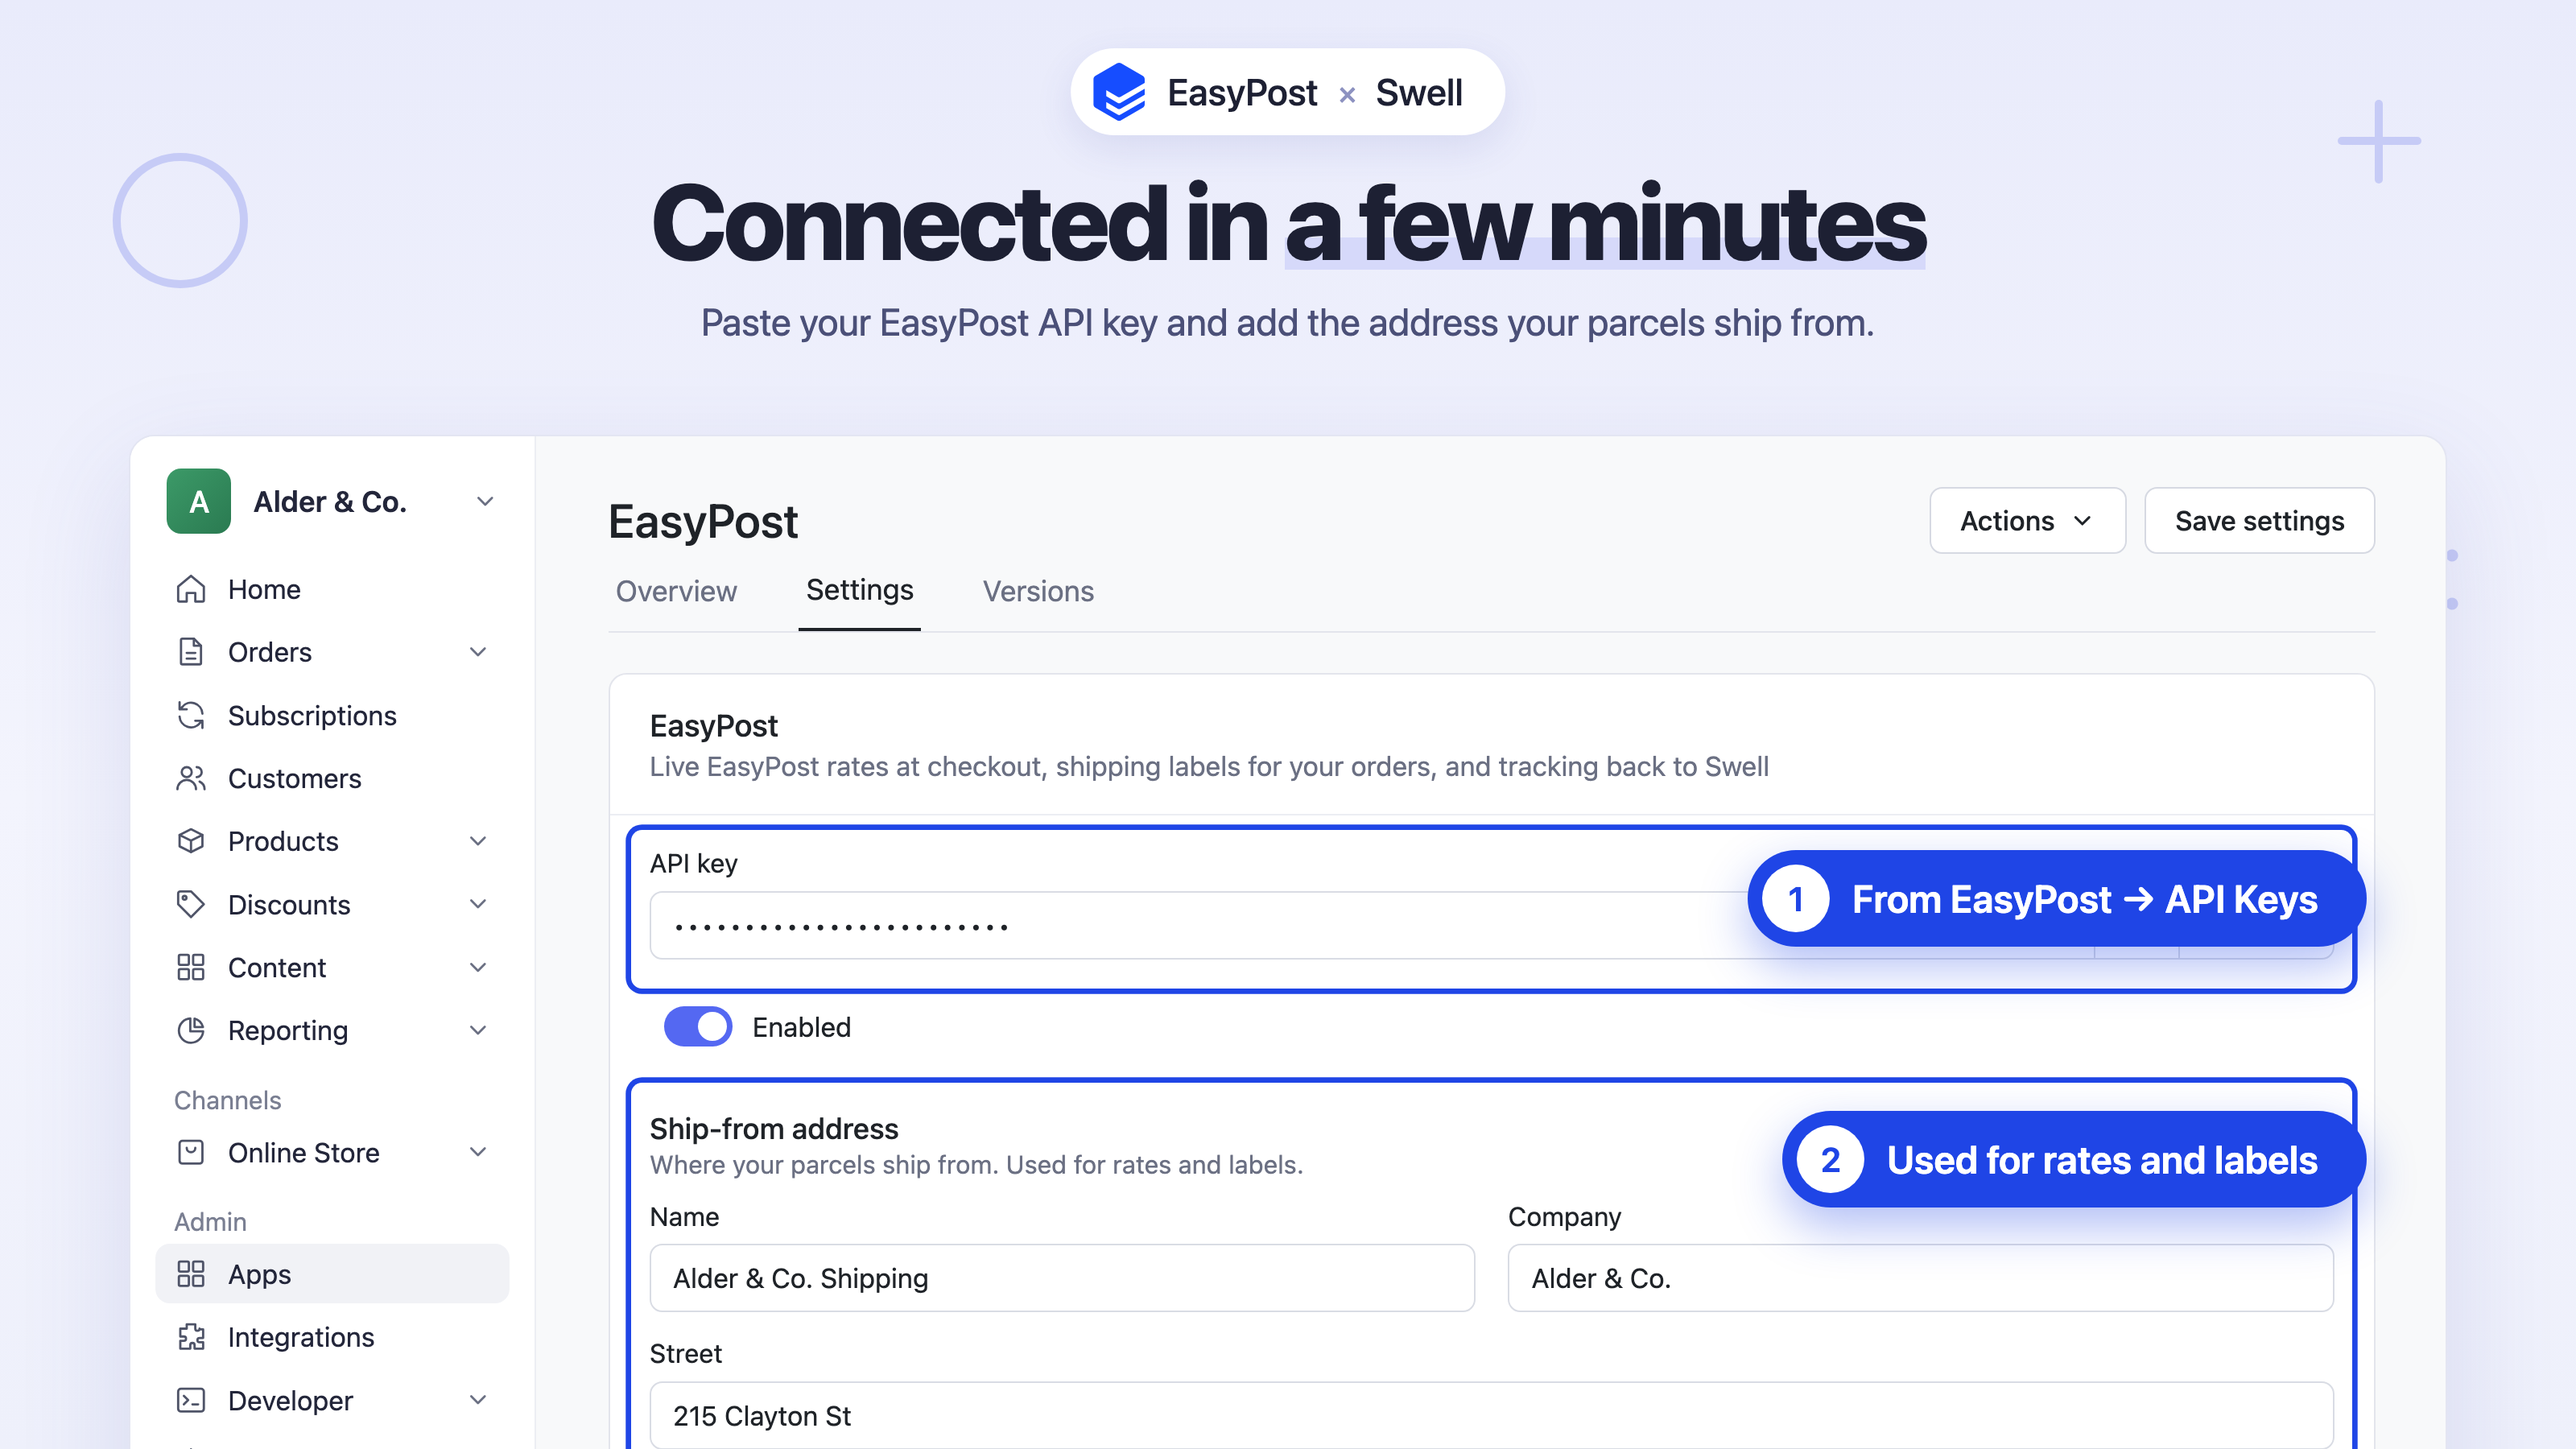
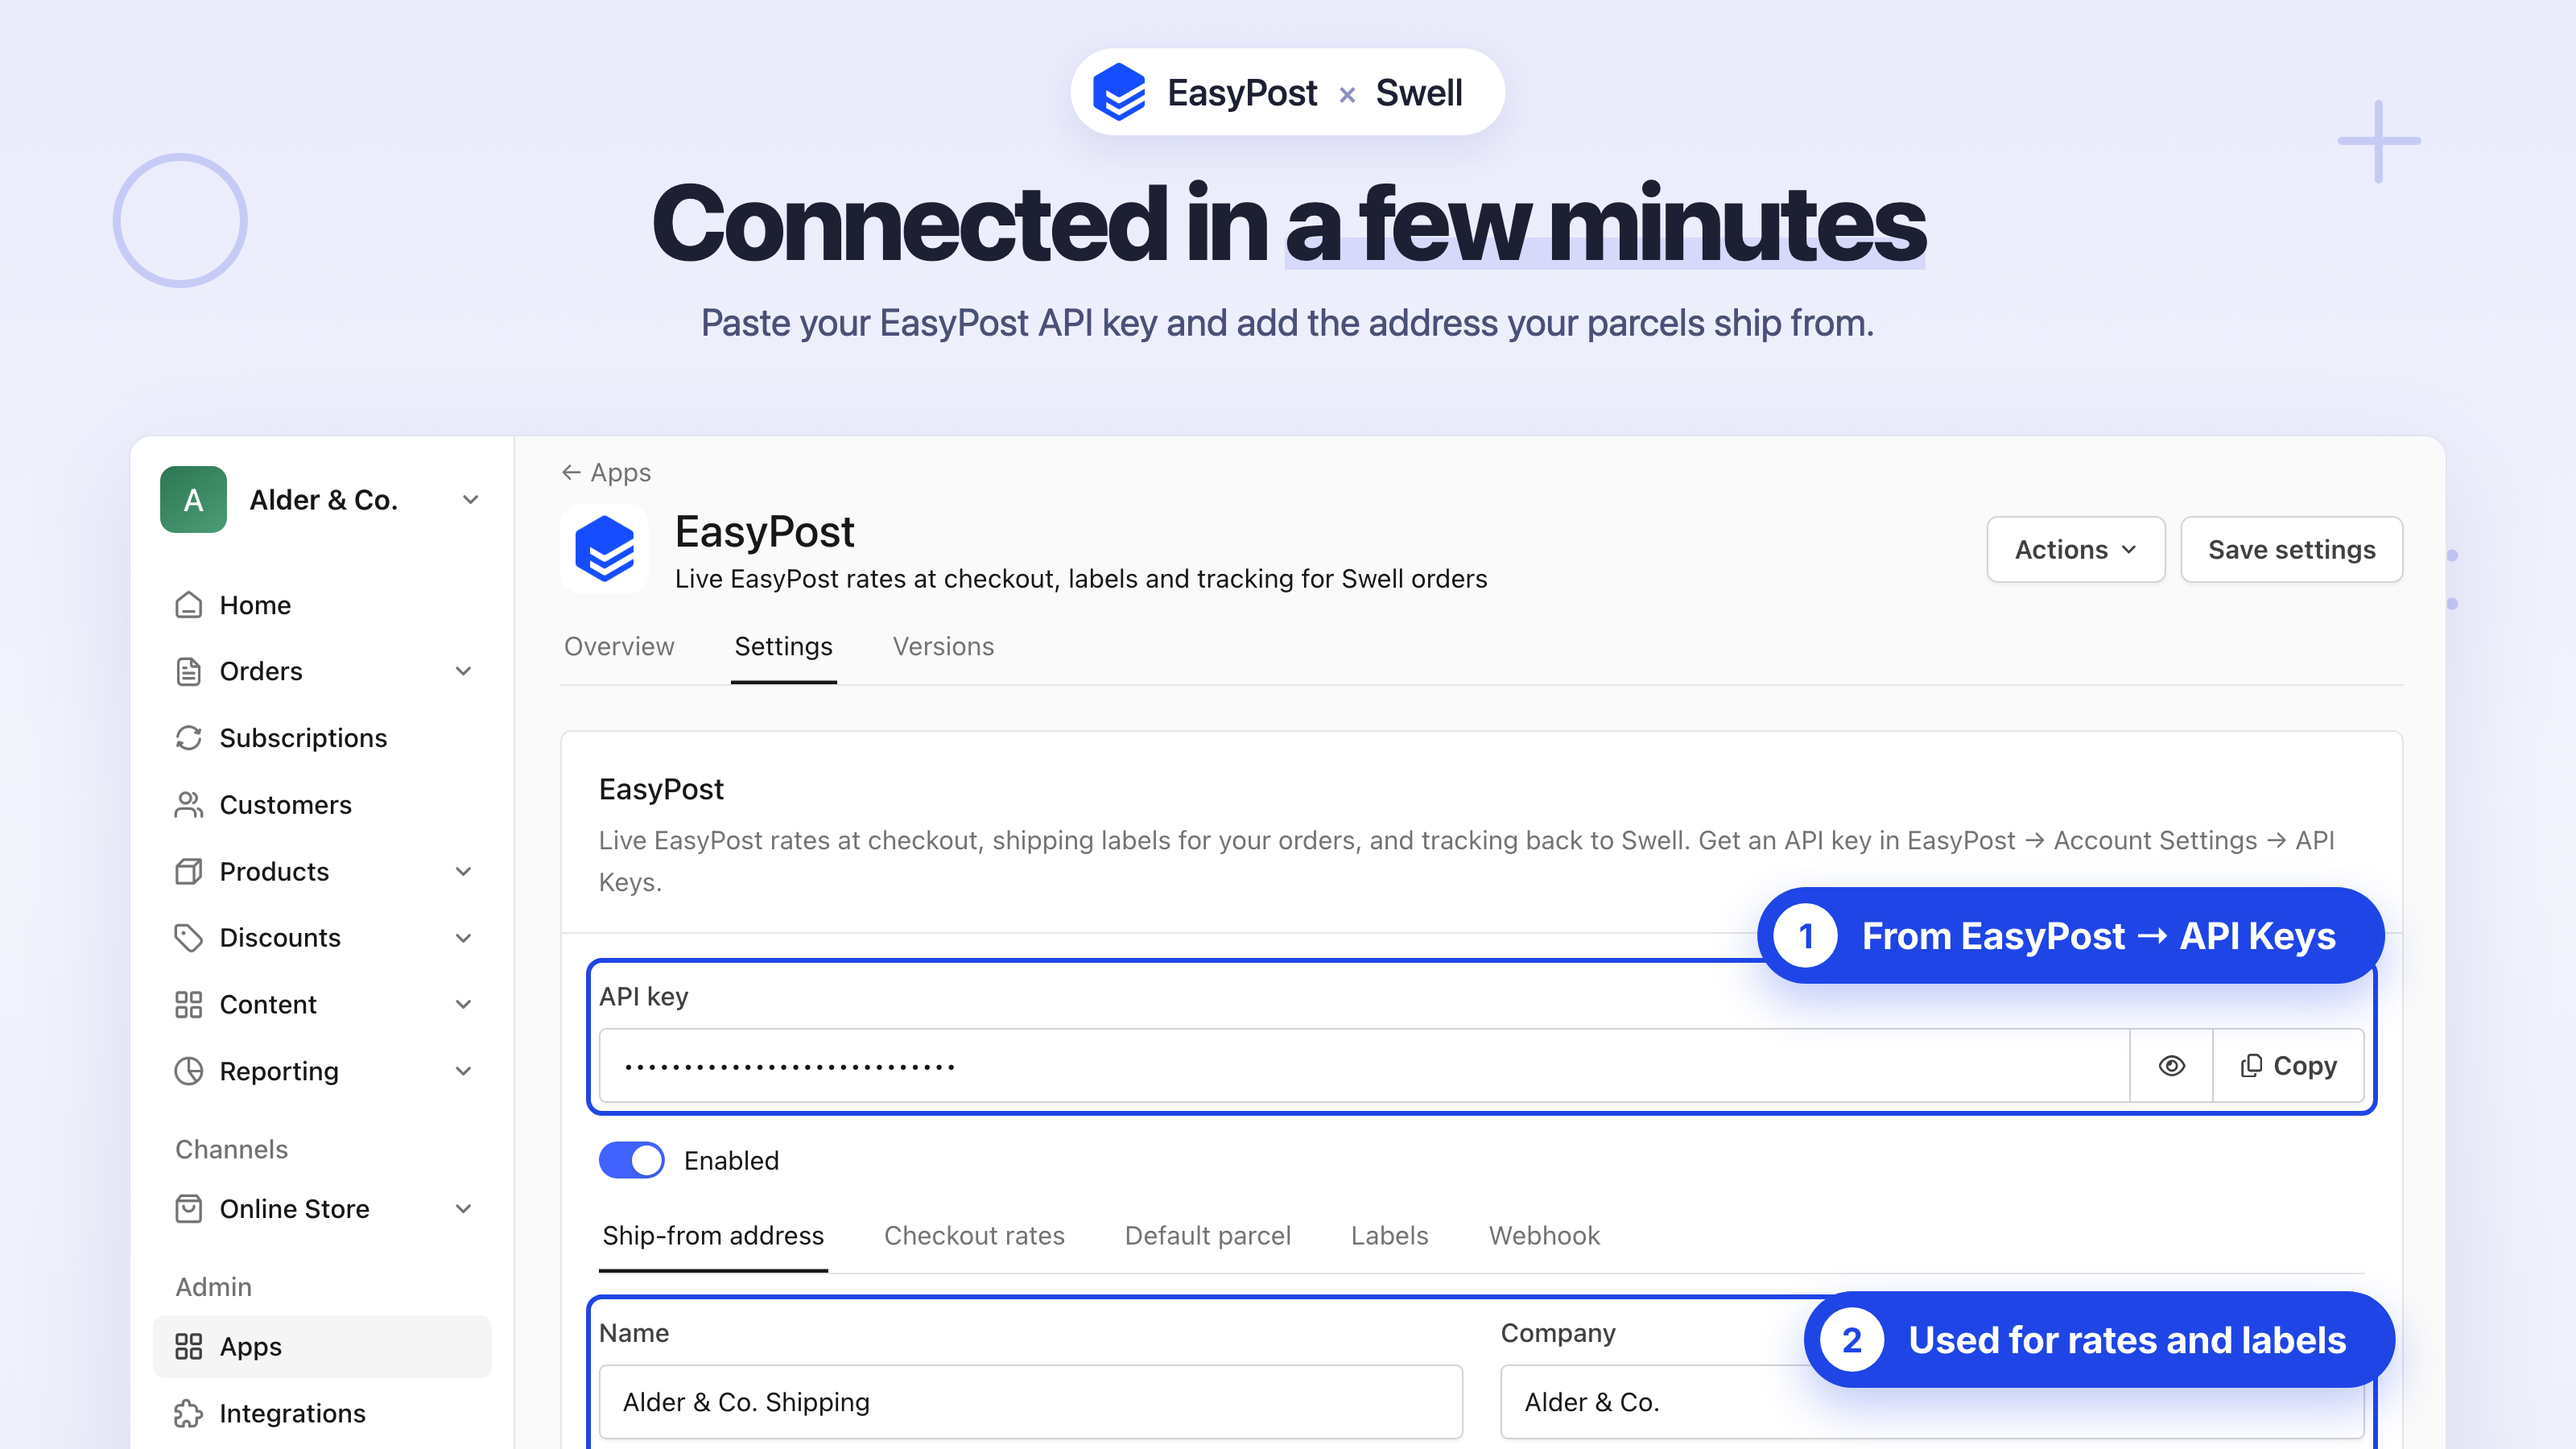
Update App Store listing: guide link, accurate images, social card
- documentation_url to the EasyPost app guide; price_external
- Image 1 shows the real settings page: app header with icon and
  tagline, field groups as tabs
- Image 3: labels are bought from the order page by default, the list
  column is labeled EasyPost, and a real customer name
- Image 3 and 4 descriptions match the code
- DESCRIPTION.md rewritten to match the code; social card

diff --git a/DESCRIPTION.md b/DESCRIPTION.md
@@ -1,12 +1,12 @@
-# EasyPost
+Show your customers live EasyPost carrier rates at checkout, and buy shipping labels from your EasyPost account. Each label fulfills the order with the carrier and tracking number, and the tracking status stays up to date on the order until the parcel is delivered.
 
-Show live EasyPost carrier rates at checkout, buy shipping labels from your EasyPost account, and keep each order's tracking status up to date in Swell.
+Connect EasyPost with an API key, add the address your parcels ship from, and turn on EasyPost in Settings → Shipping. Rates and labels come from the carrier accounts in your EasyPost account, and labels are charged to it.
 
-## How it works
+- **Live rates at checkout.** Every carrier service, such as USPS Priority or UPS Ground, becomes a checkout option with its price and estimated delivery days. Limit the carrier accounts and services, and add a markup or a handling fee.
+- **Labels when you want them.** Buy a label from the order page, or have the app buy it automatically when an order is paid or submitted. It buys the service the customer chose, or the cheapest rate, as you set in the app.
+- **Fulfilled with the label.** Each label creates a Swell shipment with the carrier, service and tracking number, and the order's EasyPost tab links to the label in PDF, PNG or ZPL.
+- **Customs for international orders.** Labels to other countries include a customs declaration built from the order's items.
+- **Tracking on every order.** Every hour, or as it happens with the optional EasyPost webhook, the app saves each parcel's tracking status, latest scan and estimated delivery on the order. The order list shows each order's EasyPost status.
+- **Void a label you don't need.** Void EasyPost label asks the carrier to refund the label and cancels its Swell shipment, so you can buy a new one.
 
-1. **Rates at checkout.** When a customer enters a shipping address, the app asks EasyPost for rates from your ship-from address for one parcel (your default box, weighed from the items). Each carrier service becomes a checkout option, with an optional markup and handling fee. Swell's own shipping services stay as they are.
-2. **Labels.** With **Buy EasyPost label** on the order page, or automatically when an order is paid or submitted, the app buys the service the customer chose, or the cheapest rate if that service isn't offered. International labels get a customs declaration from the order items. A label is never bought twice for the same order.
-3. **Fulfillment.** After buying, the order is fulfilled with a Swell shipment, and an EasyPost tab shows the carrier, tracking number, label link and postage. **Void EasyPost label** refunds the label and cancels the shipment.
-4. **Tracking.** Every hour, or as it happens with the webhook, the app saves each parcel's tracking status, latest scan and estimated delivery on the order until it's delivered.
-
-Setup: paste your EasyPost API key and ship-from address in the app settings, choose when to buy labels, then turn on EasyPost in Settings → Shipping.
+Setup takes a few minutes. In EasyPost, copy an API key from Account Settings → API Keys. In Swell, enter it in the app settings with your ship-from address and default parcel size, choose when to buy labels, run Test connection, then turn on EasyPost in Settings → Shipping and save.
